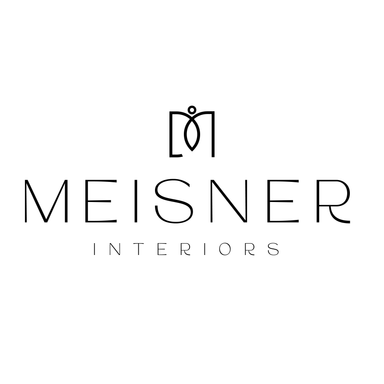
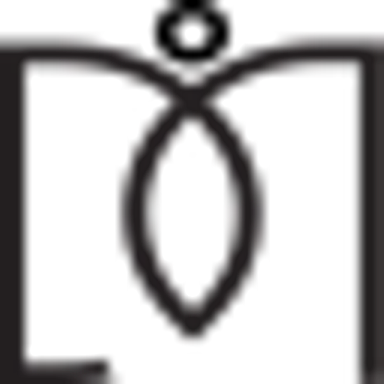
updatefavicon

diff --git a/scripts/generate-pwa-icons.js b/scripts/generate-pwa-icons.js
@@ -3,14 +3,16 @@ const path = require('path');
 const fs = require('fs');
 
 const sizes = [192, 256, 384, 512];
-const inputPath = path.join(__dirname, '..', 'public', 'meisnerinteriorlogo.png');
+// Use favicon-32x32.png as source (it's the same icon as favicon.ico)
+const inputPath = path.join(__dirname, '..', 'public', 'favicon-32x32.png');
 const outputDir = path.join(__dirname, '..', 'public');
 
 async function generateIcons() {
-  console.log('🎨 Generating PWA icons...\n');
+  console.log('🎨 Generating PWA icons from favicon...\n');
 
   if (!fs.existsSync(inputPath)) {
-    console.error('❌ Error: meisnerinteriorlogo.png not found in public folder');
+    console.error('❌ Error: favicon-32x32.png not found in public folder');
+    console.error('   Make sure your favicon files exist in the public directory.');
     process.exit(1);
   }
 
